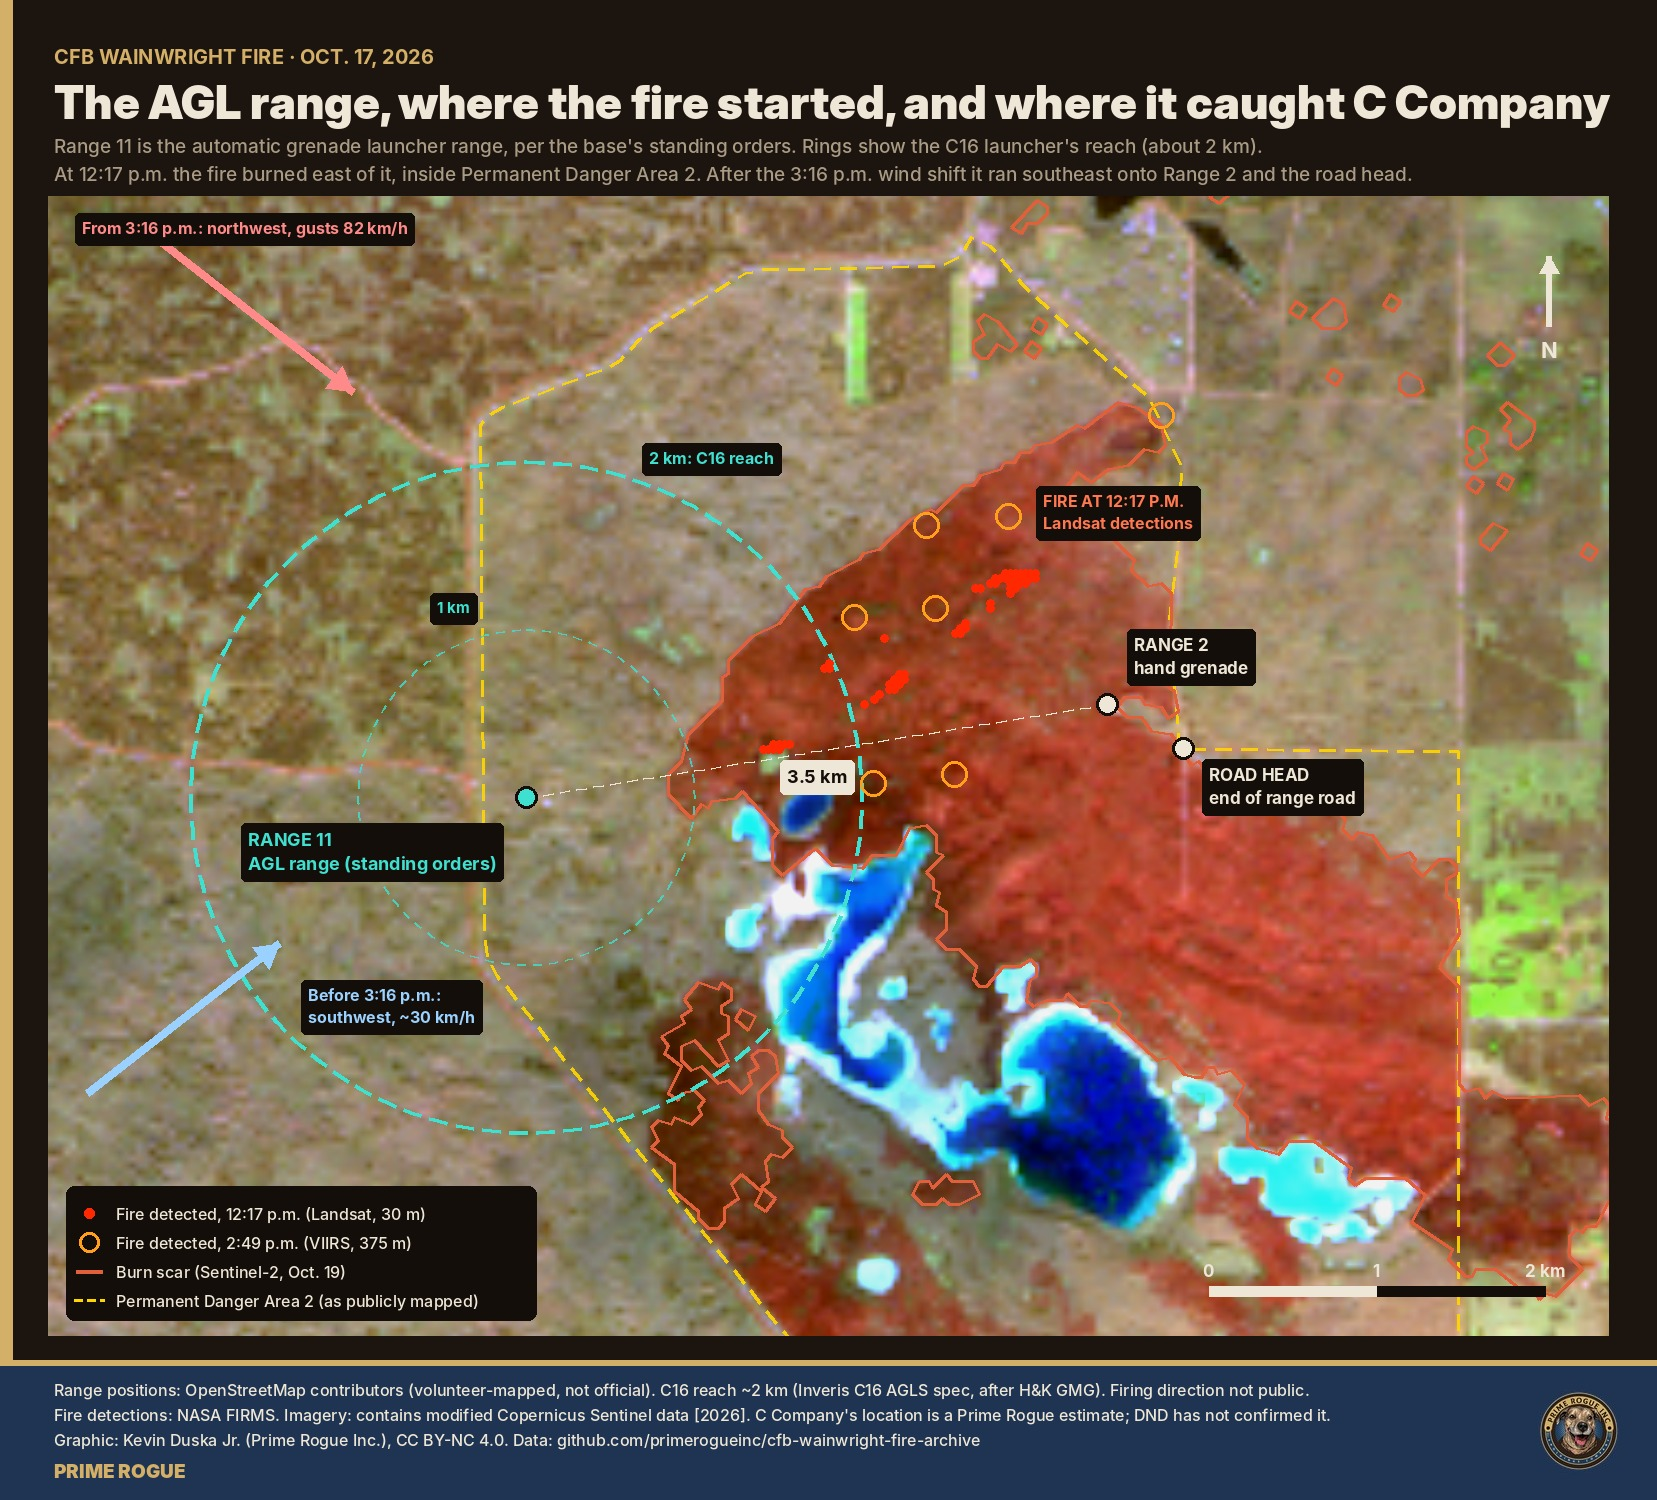
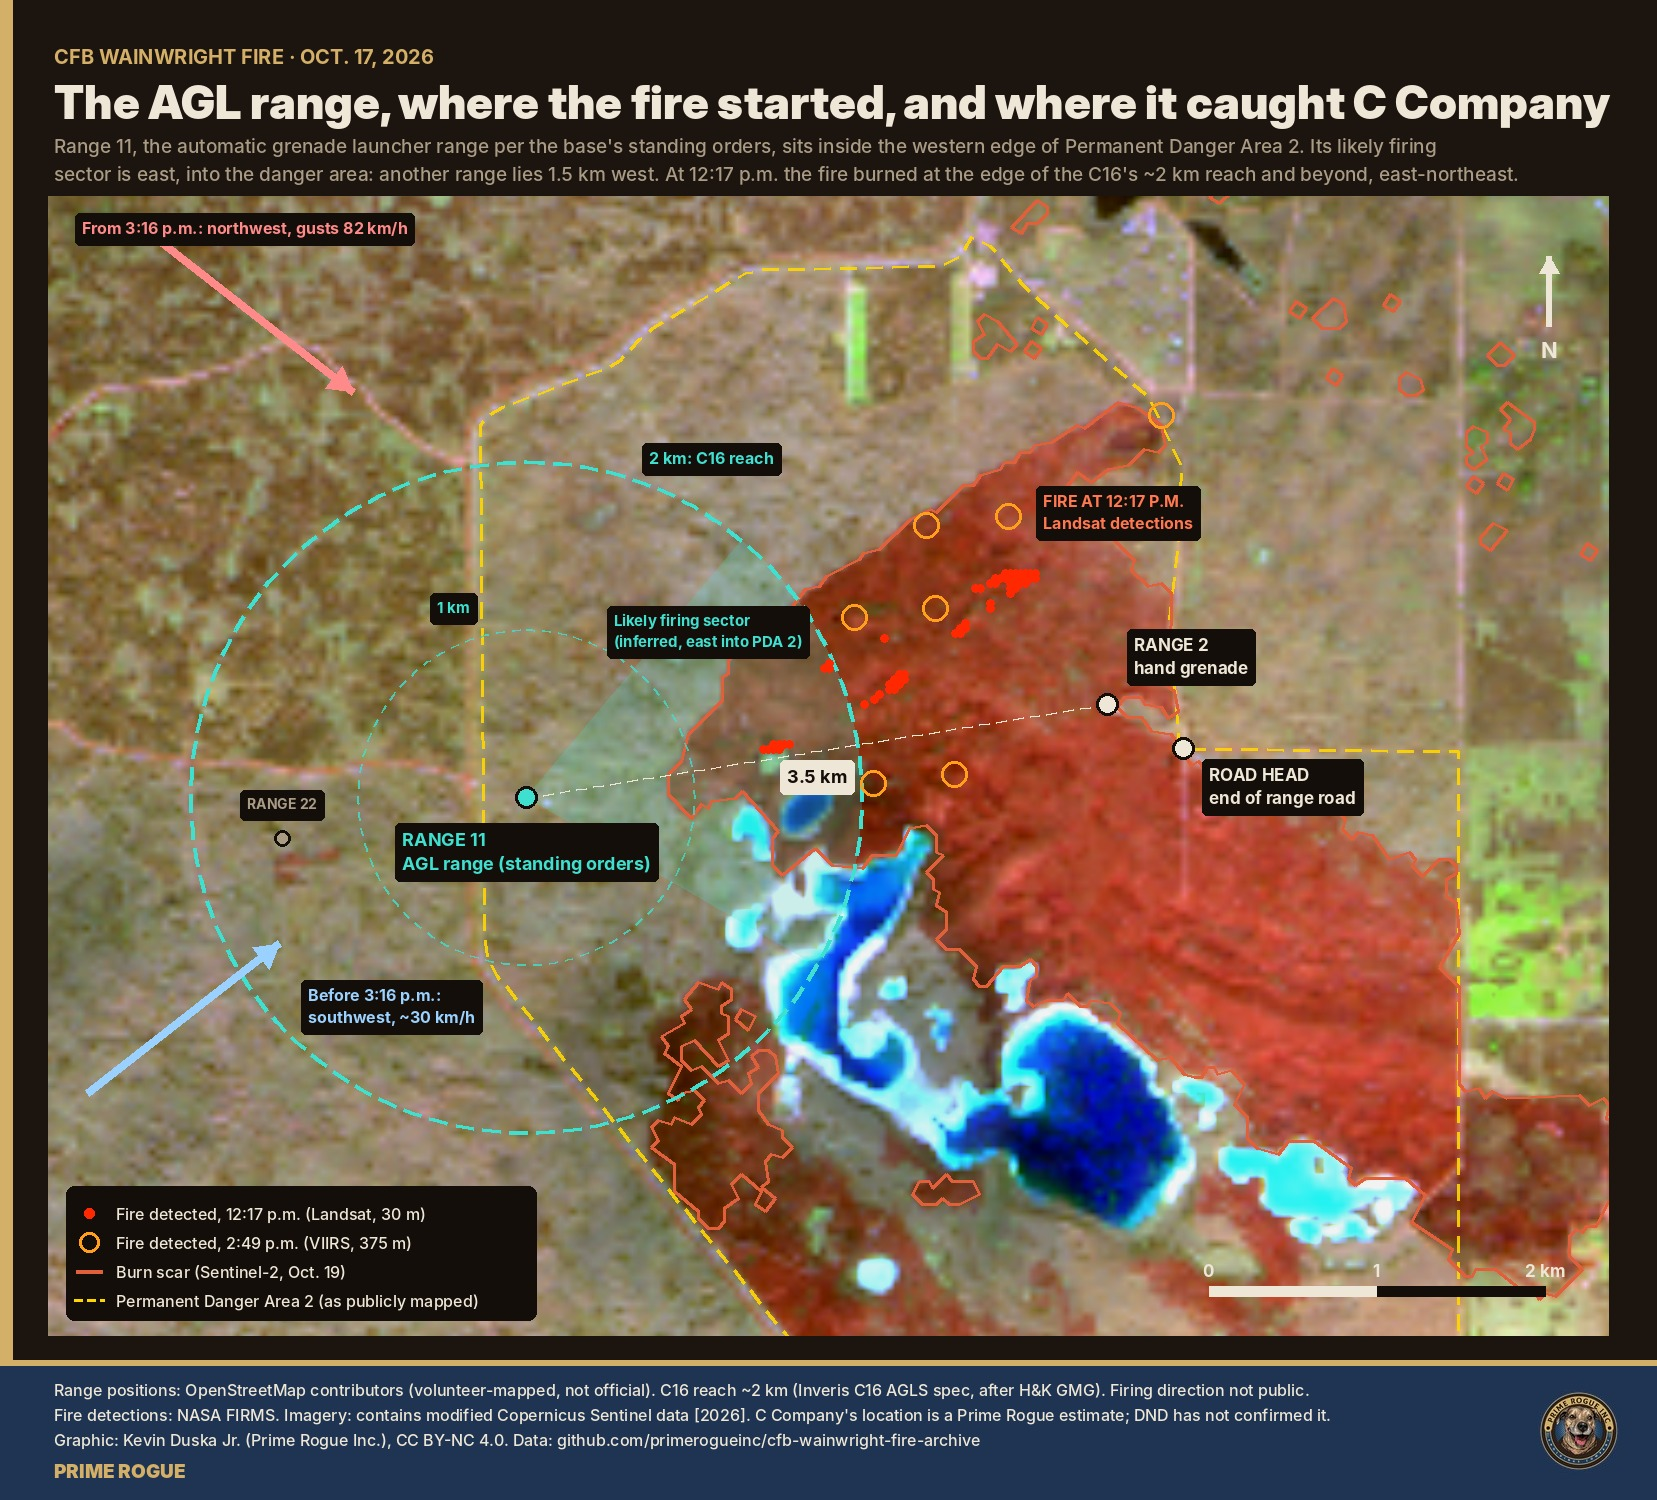
Range 11 map: inferred east firing sector, Range 22, corrected PDA 2 position
Claude-Session: https://claude.ai/code/session_012q8DP5dH322QPmsftUvE6c

Changed region(s): [[0.1231, 0.368, 0.5232, 0.644], [0.0308, 0.092, 0.9234, 0.1227]]

diff --git a/scripts/maps/g16_range11.py b/scripts/maps/g16_range11.py
@@ -9,12 +9,16 @@ TOP, L = 196, 48
 Wc, Hc = m.w + 2 * L, TOP + m.h + 24 + 140
 im, d = canvas(Wc, Hc, "CFB WAINWRIGHT FIRE · OCT. 17, 2026",
                "The AGL range, where the fire started, and where it caught C Company",
-               "Range 11 is the automatic grenade launcher range, per the base's standing orders. Rings show the C16 launcher's reach (about 2 km).\nAt 12:17 p.m. the fire burned east of it, inside Permanent Danger Area 2. After the 3:16 p.m. wind shift it ran southeast onto Range 2 and the road head.")
+               "Range 11, the automatic grenade launcher range per the base's standing orders, sits inside the western edge of Permanent Danger Area 2. Its likely firing\nsector is east, into the danger area: another range lies 1.5 km west. At 12:17 p.m. the fire burned at the edge of the C16's ~2 km reach and beyond, east-northeast.")
 base = m.base(bright=0.95)
 ov = Image.new("RGBA", base.size, (0, 0, 0, 0)); o = ImageDraw.Draw(ov)
 osmf = json.load(open(REPO + "data/infrastructure/osm_infrastructure_ODbL.geojson"))["features"]
 pda2 = [shape(f["geometry"]) for f in osmf if f["properties"].get("name") == "Permanent Danger Area 2"][0]
 m.outline(o, pda2, YEL + (230,), width=3, dash=(16, 10))
+sec = [m.P(52.7678, -110.9577)]
+for az in range(40, 121, 2):
+    lo_, la_, _ = G.fwd(-110.9577, 52.7678, az, 2000); sec.append(m.P(la_, lo_))
+o.polygon(sec, fill=TEAL + (55,))
 for f in json.load(open(REPO + "data/copernicus/burn_scar.geojson"))["features"]:
     m.outline(o, shape(f["geometry"]), RED + (255,), width=3)
 R11 = (52.7678, -110.9577)
@@ -37,10 +41,14 @@ for (a, b) in [("R11", "R2")]:
 def dot(p, col, r=11):
     dd.ellipse([p[0] - r, p[1] - r, p[0] + r, p[1] + r], fill=col, outline=INK, width=3)
 dot(P["R11"], TEAL); dot(P["R2"], CREAM); dot(P["RH"], CREAM)
+q = m.P(52.7656, -110.9793); dot(q, MUTED, r=8); label(dd, (q[0], q[1] - 44), "RANGE 22", col=MUTED, size=14, anchor="ma")
+gx, gy = m.P(52.7655, -110.9795)
+label(dd, m.P(52.7778, -110.9500), "Likely firing sector\n(inferred, east into PDA 2)", col=TEAL, size=15)
+
 def km(a, b): return G.inv(pts[a][1], pts[a][0], pts[b][1], pts[b][0])[2] / 1000
 mx = ((P["R11"][0] + P["R2"][0]) / 2, (P["R11"][1] + P["R2"][1]) / 2)
 label(dd, (mx[0], mx[1] + 14), f"{km('R11','R2'):.1f} km", col=INK, bg=CREAM, size=18, anchor="ma")
-label(dd, (P["R11"][0] - 30, P["R11"][1] + 30), "RANGE 11\nAGL range (standing orders)", col=TEAL, size=18, anchor="ra")
+label(dd, (P["R11"][0], P["R11"][1] + 30), "RANGE 11\nAGL range (standing orders)", col=TEAL, size=18, anchor="ma")
 label(dd, (P["R2"][0] + 26, P["R2"][1] - 70), "RANGE 2\nhand grenade", size=17)
 label(dd, (P["RH"][0] + 26, P["RH"][1] + 16), "ROAD HEAD\nend of range road", size=17)
 x2, y2 = m.P(*G.fwd(R11[1], R11[0], 20, 2000)[1::-1])
